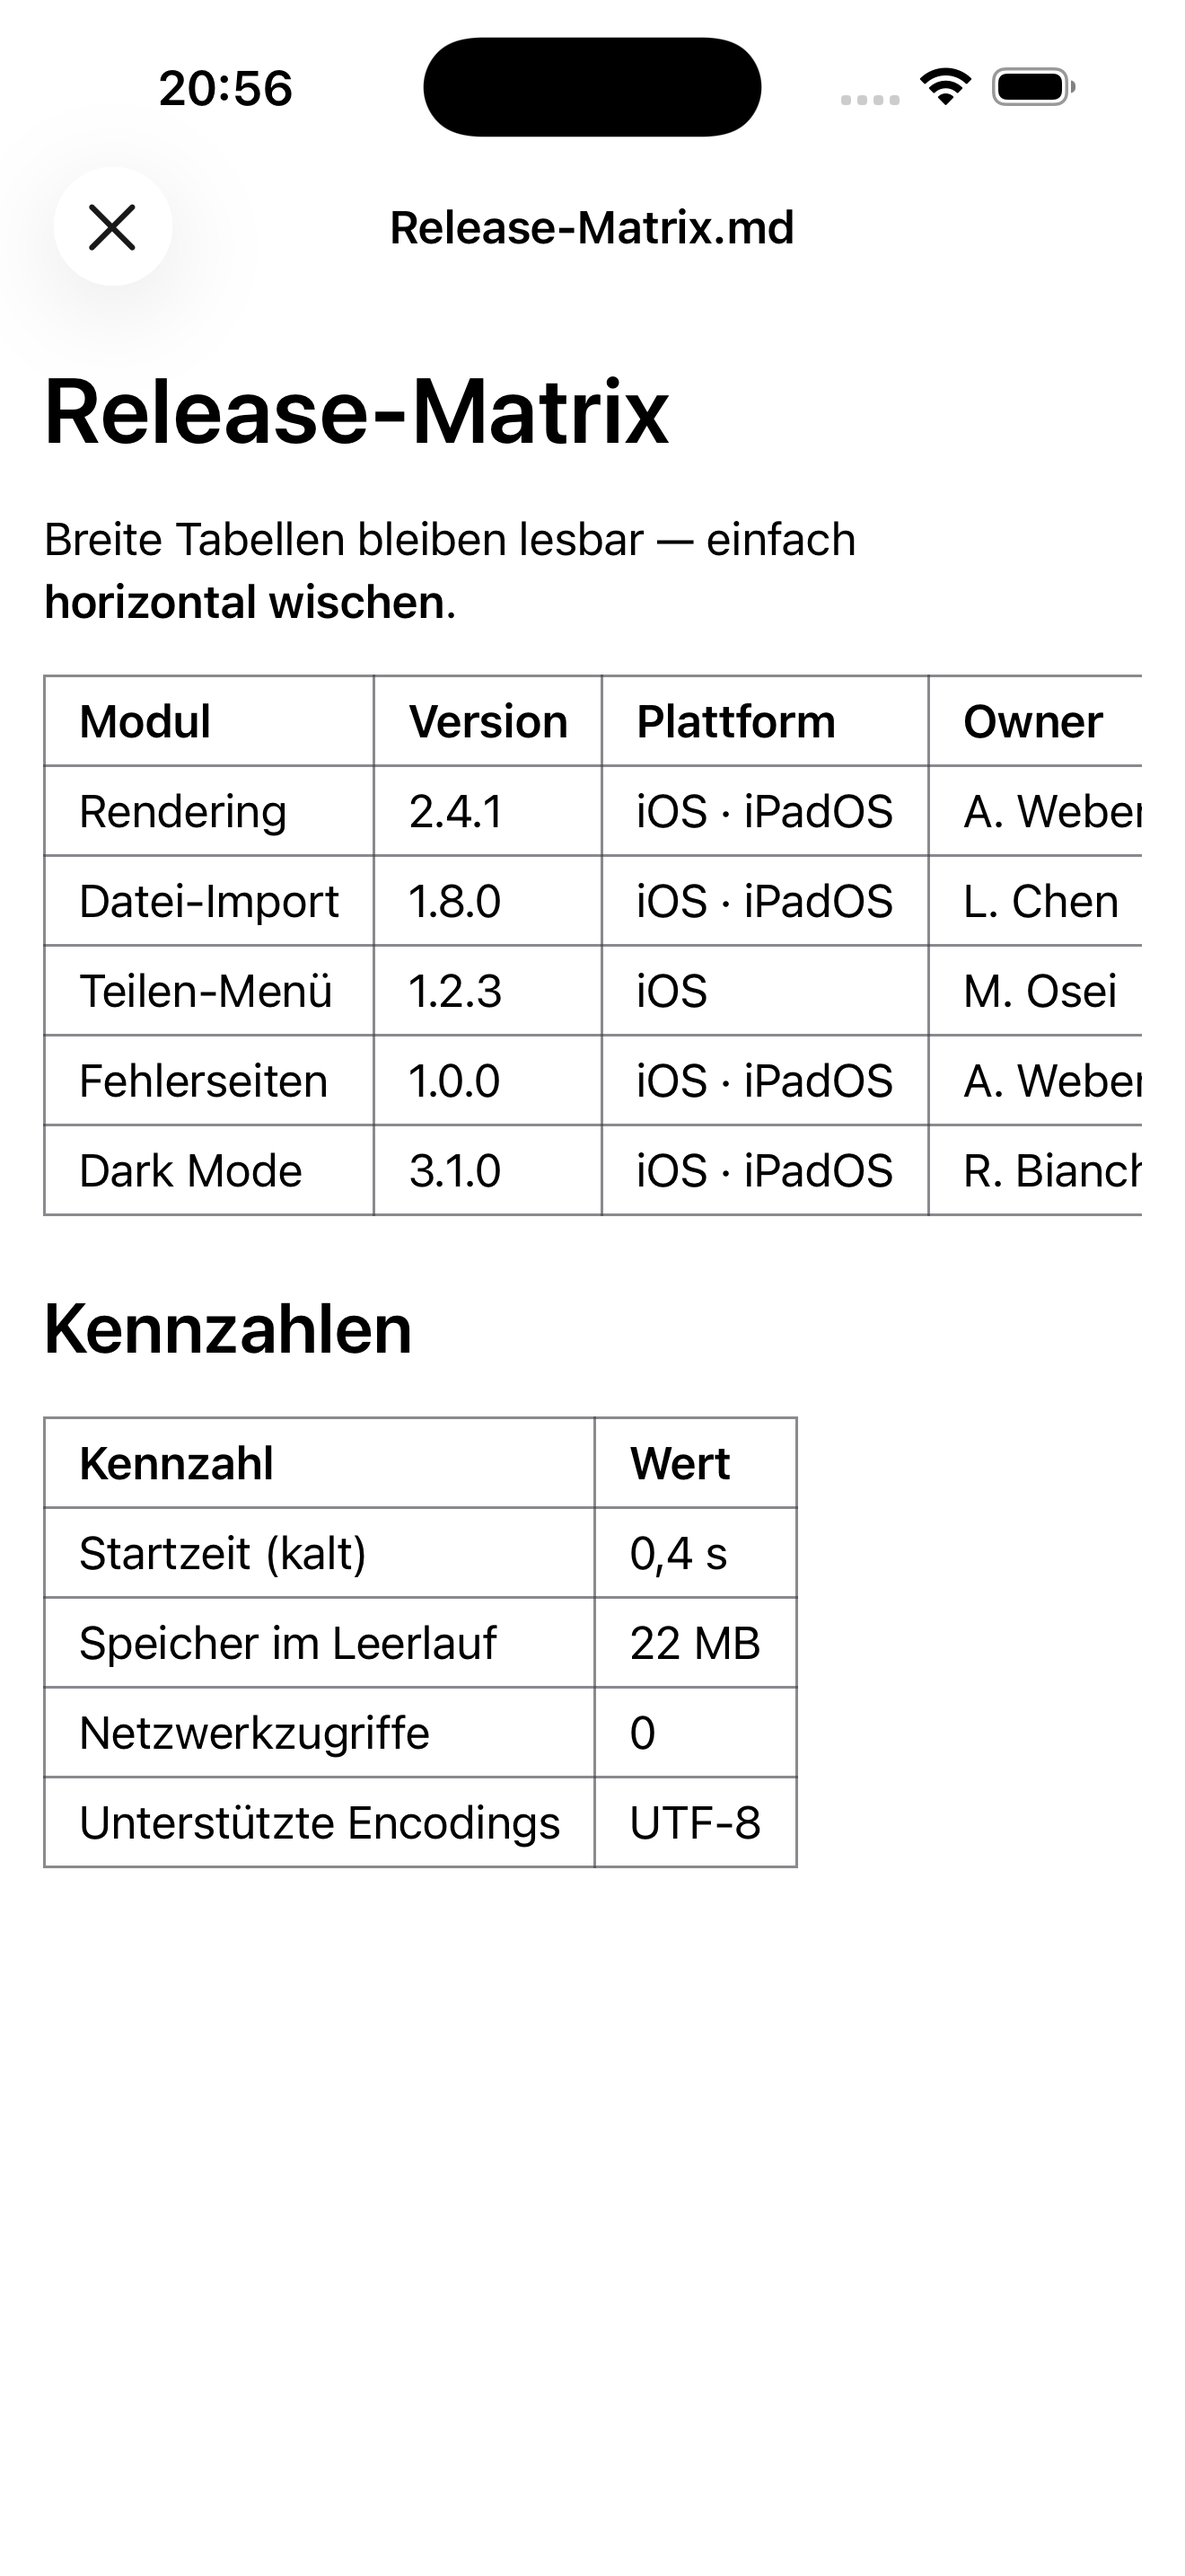
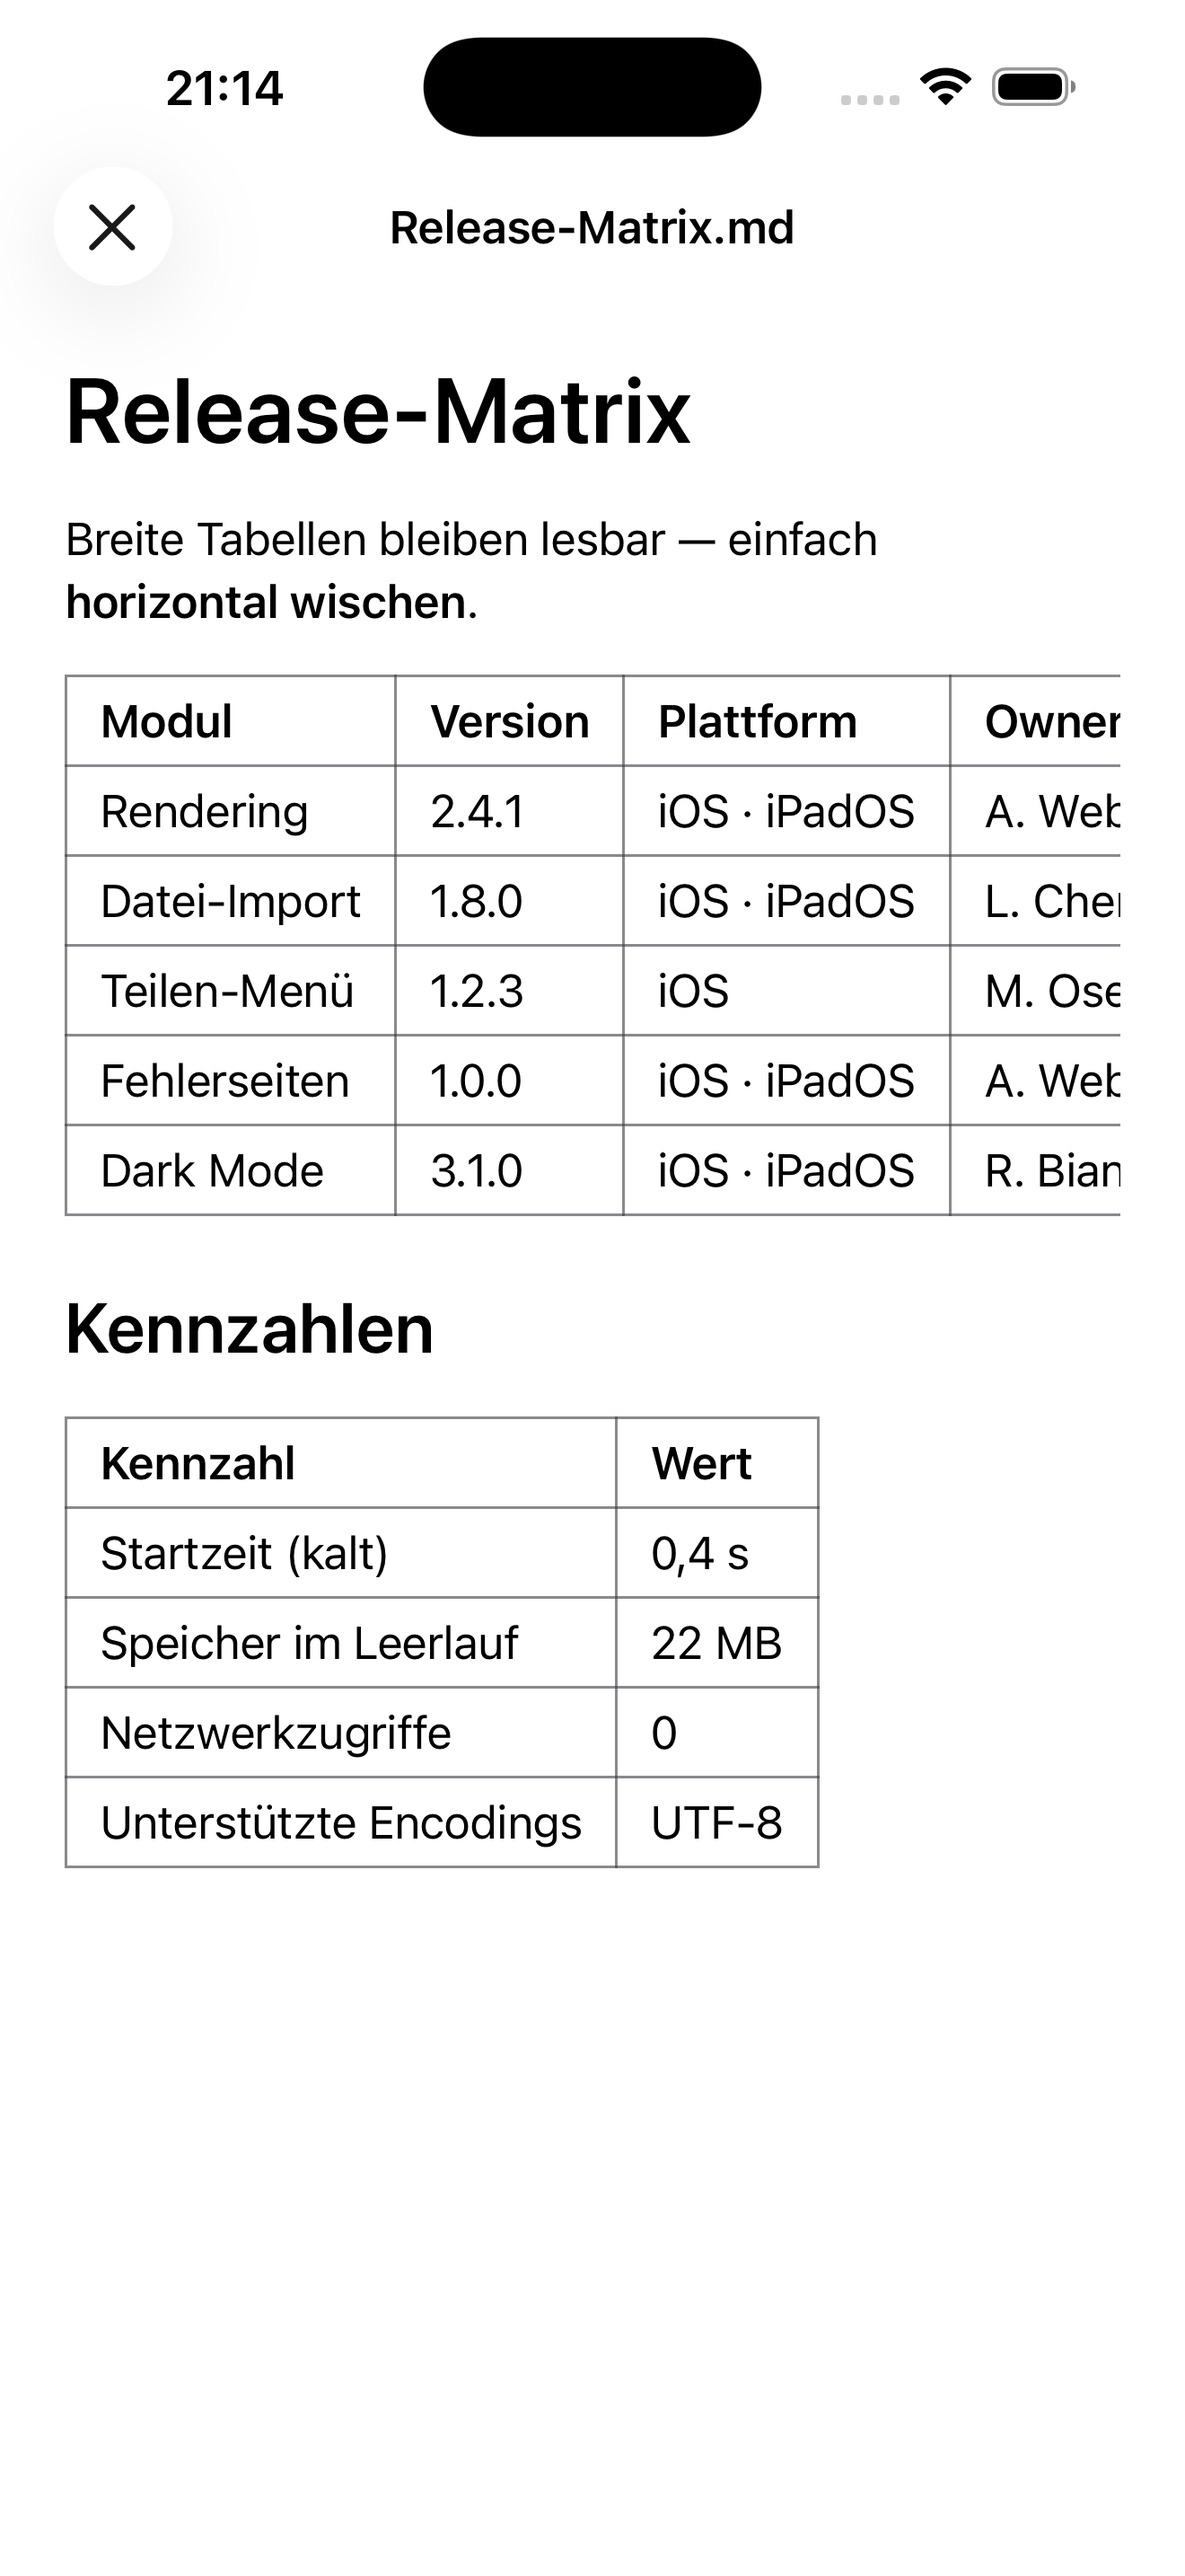
iPad/iPad: Dokument fuellt die volle Breite (~24pt Rand)
Statt der zentrierten Lesespalte laeuft der Text jetzt randlos (auf
Wunsch). MarkdownUI schrumpft von sich aus auf die natuerliche
Inhaltsbreite und pinnt links - daher explizites
.frame(width: geometry.size.width - 48) das die Breite erzwingt.
Screenshots (je 5, iPhone + iPad) neu erzeugt.

diff --git a/md Viewer/md Viewer/DocumentView.swift b/md Viewer/md Viewer/DocumentView.swift
@@ -128,12 +128,12 @@ struct DocumentView: View {
                                     .clipShape(RoundedRectangle(cornerRadius: 8))
                                     .markdownMargin(top: 0, bottom: 16)
                                 }
+                                // Fill the available width (MarkdownUI otherwise sizes
+                                // to the content's natural width and pins it leading,
+                                // which looks broken on iPad). ~24pt side margins.
+                                .frame(width: max(0, geometry.size.width - 48), alignment: .leading)
+                                .padding(.horizontal, 24)
                                 .padding(.vertical)
-                                // Keep a comfortable, centered reading measure on wide
-                                // screens (iPad, landscape) instead of letting text run
-                                // edge to edge. On phones this collapses to a normal
-                                // 16pt margin.
-                                .padding(.horizontal, max(16, (geometry.size.width - 688) / 2))
                         }
                     }
                 case .failure(let error):
